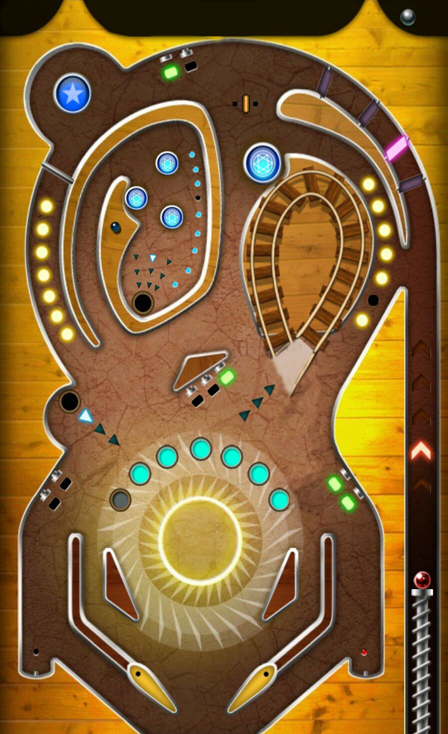
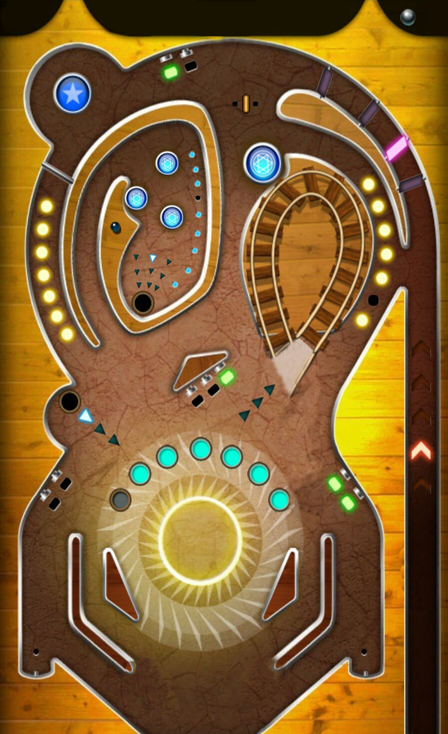
Ayyy lmao

diff --git a/Pinballv2/ModulePlayer.cpp b/Pinballv2/ModulePlayer.cpp
@@ -10,7 +10,7 @@
 ModulePlayer::ModulePlayer(Application* app, bool start_enabled) : Module(app, start_enabled)
 {
 	rightFlipper = rightCircle =  leftFlipper = leftCircle = NULL;
-	ballTexture = NULL;
+	//ballTexture = NULL;
 
 	flipperSpeed = 20;
 	springSpeed = 20;
@@ -25,7 +25,10 @@ bool ModulePlayer::Start()
 {
 	LOG("Loading player");
 
-	ballTexture = App->textures->Load("pinball/wheel.png");
+	//ballTexture = App->textures->Load("pinball/wheel.png");
+	springTexture = App->textures->Load("pinball/spring.png");
+	lFlipperTexture = App->textures->Load("pinball/flipperleft.png");
+	rFlipperTexture = App->textures->Load("pinball/flipperright.png");
 
 	CreateFlippers();
 	CreateSpring();
@@ -38,7 +41,10 @@ bool ModulePlayer::CleanUp()
 {
 	LOG("Unloading player");
 
-	App->textures->Unload(ballTexture);
+	//App->textures->Unload(ballTexture);
+	App->textures->Unload(springTexture);
+	App->textures->Unload(lFlipperTexture);
+	App->textures->Unload(rFlipperTexture);
 
 	return true;
 }
@@ -46,6 +52,9 @@ bool ModulePlayer::CleanUp()
 // Update: draw background
 update_status ModulePlayer::Update()
 {
+	App->renderer->Blit(springTexture, METERS_TO_PIXELS(spring->body->GetPosition().x)+3, METERS_TO_PIXELS(spring->body->GetPosition().y), NULL);
+	//App->renderer->Blit(lFlipperTexture, METERS_TO_PIXELS(leftFlipper->body->GetPosition().x), METERS_TO_PIXELS(leftFlipper->body->GetPosition().y), NULL, 1.0f, leftFlipper->body->GetAngle(),0,0);
+	//App->renderer->Blit(rFlipperTexture, METERS_TO_PIXELS(rightFlipper->body->GetPosition().x), METERS_TO_PIXELS(rightFlipper->body->GetPosition().y), NULL, 1.0f, rightFlipper->body->GetAngle(), 0, 0);
 
 	//Flippers Control
 	if (App->input->GetKey(SDL_SCANCODE_A) == KEY_REPEAT)
@@ -66,11 +75,11 @@ update_status ModulePlayer::Update()
 		((b2RevoluteJoint*)rightFlipper->body->GetJointList()->joint)->SetMotorSpeed(flipperSpeed);
 	}
 
-	if (App->input->GetKey(SDL_SCANCODE_SPACE) == KEY_REPEAT)
+	if (App->input->GetKey(SDL_SCANCODE_S) == KEY_REPEAT)
 	{
 		((b2PrismaticJoint*)spring->body->GetJointList()->joint)->SetMotorSpeed(-springSpeed / 10);
 	}
-	if (App->input->GetKey(SDL_SCANCODE_SPACE) == KEY_UP)
+	if (App->input->GetKey(SDL_SCANCODE_S) == KEY_UP)
 	{
 		((b2PrismaticJoint*)spring->body->GetJointList()->joint)->SetMotorSpeed(springSpeed);
 	}
@@ -83,6 +92,35 @@ update_status ModulePlayer::Update()
 
 void ModulePlayer::CreateFlippers()
 {
+	//LeftFlipper
+	int Left[14] = {
+		1, 12,
+		9, 4,
+		20, 3,
+		67, 12,
+		67, 17,
+		21, 22,
+		9, 20
+	};
+	leftFlipper = App->physics->CreatePoly(128, 665, Left, 14, dynamic_body, 0);
+	leftCircle = App->physics->CreateCircle(128+11, 665+11, 2, static_body);
+	App->physics->CreateRevJoint(11, 11, 0, 0, leftFlipper, leftCircle, 33, -27, -flipperSpeed);
+
+	//RightFlipper
+	int Right[14] = {
+		69, 11,
+		61, 4,
+		53, 3,
+		4, 12,
+		4, 16,
+		52, 22,
+		62, 20
+	};
+	rightFlipper = App->physics->CreatePoly(206, 665, Right, 14, dynamic_body, 0);
+	rightCircle = App->physics->CreateCircle(206+60, 665+11, 2, static_body);
+	App->physics->CreateRevJoint(60, 11, 0, 0, rightFlipper, rightCircle, 30, -33, flipperSpeed);
+
+	/*
 	//LeftFlipper
 	int Left[12] = {
 		9, 4,
@@ -106,6 +144,7 @@ void ModulePlayer::CreateFlippers()
 	};
 	rightFlipper = App->physics->CreatePoly(210, 630, Right, 12, dynamic_body, 0);
 	App->physics->CreateRevJoint(54, 14, 266, 673, rightFlipper, App->scene_intro->borders.getLast()->data , 33, -27, flipperSpeed);
+	*/
 }
 
 void ModulePlayer::CreateSpring()

diff --git a/Pinballv2/ModuleSceneIntro.cpp b/Pinballv2/ModuleSceneIntro.cpp
@@ -14,6 +14,7 @@ ModuleSceneIntro::ModuleSceneIntro(Application* app, bool start_enabled) : Modul
 	scene = NULL;
 	ball = leftSpring = leftSpringCircle = rightSpring = rightSpringCircle = teleport = NULL;
 	springSpeed = 100.0f;
+	teleportReady = false;
 }
 
 ModuleSceneIntro::~ModuleSceneIntro()
@@ -27,14 +28,15 @@ bool ModuleSceneIntro::Start()
 
 	App->renderer->camera.x = App->renderer->camera.y = 0;
 
-	scene = App->textures->Load("game/pinball/pinball.png");
+	scene = App->textures->Load("pinball/pinball.png");
+	ballTexture = App->textures->Load("pinball/ball.png");
 	bonus_fx = App->audio->LoadFx("pinball/bonus.wav");
 
 	CreateBorders();
 	CreateBumpers();
 	CreateSprings();
 
-	teleport = App->physics->CreateCircle(142, 303, 9, static_body);
+	teleport = App->physics->CreateCircle(142, 303, 2, static_body);
 	teleport->listener = this;
 
 	return ret;
@@ -44,6 +46,9 @@ bool ModuleSceneIntro::Start()
 bool ModuleSceneIntro::CleanUp()
 {
 	LOG("Unloading Intro scene");
+
+	App->textures->Unload(scene);
+	App->textures->Unload(ballTexture);
 
 	return true;
 }
@@ -58,7 +63,6 @@ update_status ModuleSceneIntro::Update()
 	App->renderer->Blit(scene, 0, 0, NULL);
 
 
-
 	if (App->input->GetKey(SDL_SCANCODE_1) == KEY_DOWN && !ball)
 	{
 		ball = App->physics->CreateCircle(App->input->GetMouseX(), App->input->GetMouseY(), 9, dynamic_body);	
@@ -67,6 +71,7 @@ update_status ModuleSceneIntro::Update()
 
 	if (ball)
 	{ 
+		App->renderer->Blit(ballTexture, METERS_TO_PIXELS(ball->body->GetPosition().x)-9, METERS_TO_PIXELS(ball->body->GetPosition().y)-9, NULL);
 		if (ball->body->GetPosition().y >= PIXEL_TO_METERS(SCREEN_HEIGHT + 5))
 		{
 			ball->SetPosition(422, 579);
@@ -75,6 +80,12 @@ update_status ModuleSceneIntro::Update()
 
 			((b2PrismaticJoint*)rightSpring->body->GetJointList()->joint)->SetMotorSpeed(-springSpeed);
 			((b2PrismaticJoint*)leftSpring->body->GetJointList()->joint)->SetMotorSpeed(-springSpeed);
+		}
+		if (teleportReady)
+		{
+			teleportReady = false;
+			ball->SetPosition(68, 400);
+			ball->body->ApplyForce(b2Vec2(0,2),b2Vec2(0,2),false);
 		}
 	}
 	/*ball = NULL;
@@ -104,10 +115,11 @@ update_status ModuleSceneIntro::Update()
 void ModuleSceneIntro::OnCollision(PhysBody* bodyA, PhysBody* bodyB)
 {
 	//("COLLISION");
-	/*if (teleport == bodyA)
+	if (teleport == bodyA && ball == bodyB)
 	{
-		ball->SetPosition(68, 400);
-	}*/
+		teleportReady = true;
+		//ball->SetPosition(68, 400);
+	}
 	if (rightSpring == bodyA && ball == bodyB)
 	{
 		((b2PrismaticJoint*)rightSpring->body->GetJointList()->joint)->SetMotorSpeed(springSpeed);
@@ -483,6 +495,8 @@ void ModuleSceneIntro::CreateBorders()
 	size = 22;
 	borders.add(App->physics->CreateChain(0, 0, border9, size));
 
+	App->physics->CreateRectangle(246,103,4,15,static_body);
+
 }
 
 void ModuleSceneIntro::CreateBumpers()
@@ -499,7 +513,7 @@ void ModuleSceneIntro::CreateBumpers()
 		110, 548
 	};
 	size = 14;
-	App->physics->CreatePoly(0, 0, bumperTri1, size, static_body, 2.0f);
+	App->physics->CreatePoly(0, 0, bumperTri1, size, static_body, 1.0f);
 
 	int bumperTri2[14] = {
 		293, 547,
@@ -511,7 +525,10 @@ void ModuleSceneIntro::CreateBumpers()
 		297, 554
 	};
 	size = 14;
-	App->physics->CreatePoly(0, 0, bumperTri2, size, static_body, 2.0f);
+	App->physics->CreatePoly(0, 0, bumperTri2, size, static_body, 1.0f);
+
+	App->physics->CreateCircle(73, 93, 19, static_body, 1.0f);
+	App->physics->CreateCircle(262, 163, 19, static_body, 1.0f);
 
 }
 

diff --git a/Pinballv2/ModulePlayer.h b/Pinballv2/ModulePlayer.h
@@ -31,10 +31,14 @@ public:
 	PhysBody*		spring;
 	PhysBody*		springCircle;
 
-	SDL_Texture*	ballTexture;
+	//SDL_Texture*	ballTexture;
+	SDL_Texture*	springTexture;
+	SDL_Texture*	lFlipperTexture;
+	SDL_Texture*	rFlipperTexture;
 
 	float			flipperSpeed;
 	float           springSpeed;
 	int				lives;
+	
 
 };

diff --git a/Pinballv2/ModuleSceneIntro.h b/Pinballv2/ModuleSceneIntro.h
@@ -33,8 +33,11 @@ public:
 	/*PhysBody* sensor;
 	bool sensed;*/
 	SDL_Texture*		scene;
+	SDL_Texture*		ballTexture;
 	
 	float springSpeed;
+
+	bool teleportReady;
 
 	uint bonus_fx;
 	p2Point<int> ray;
